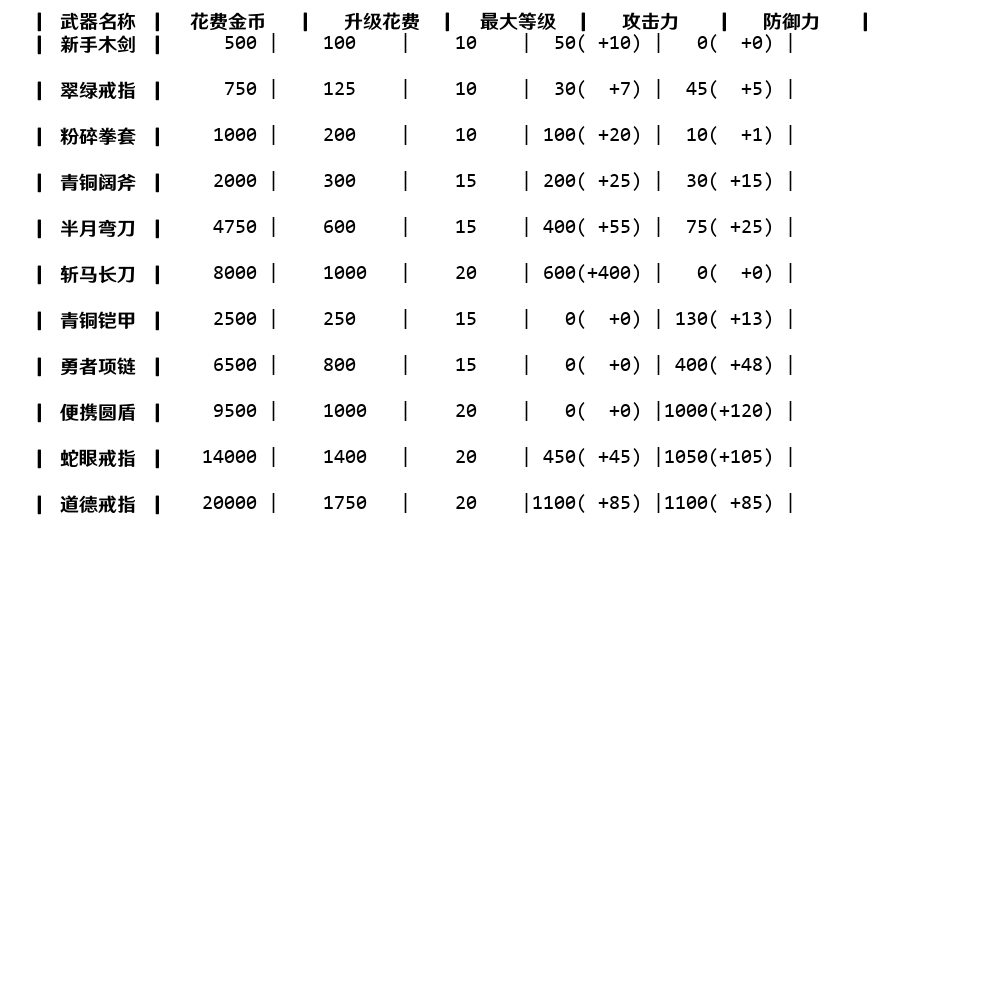
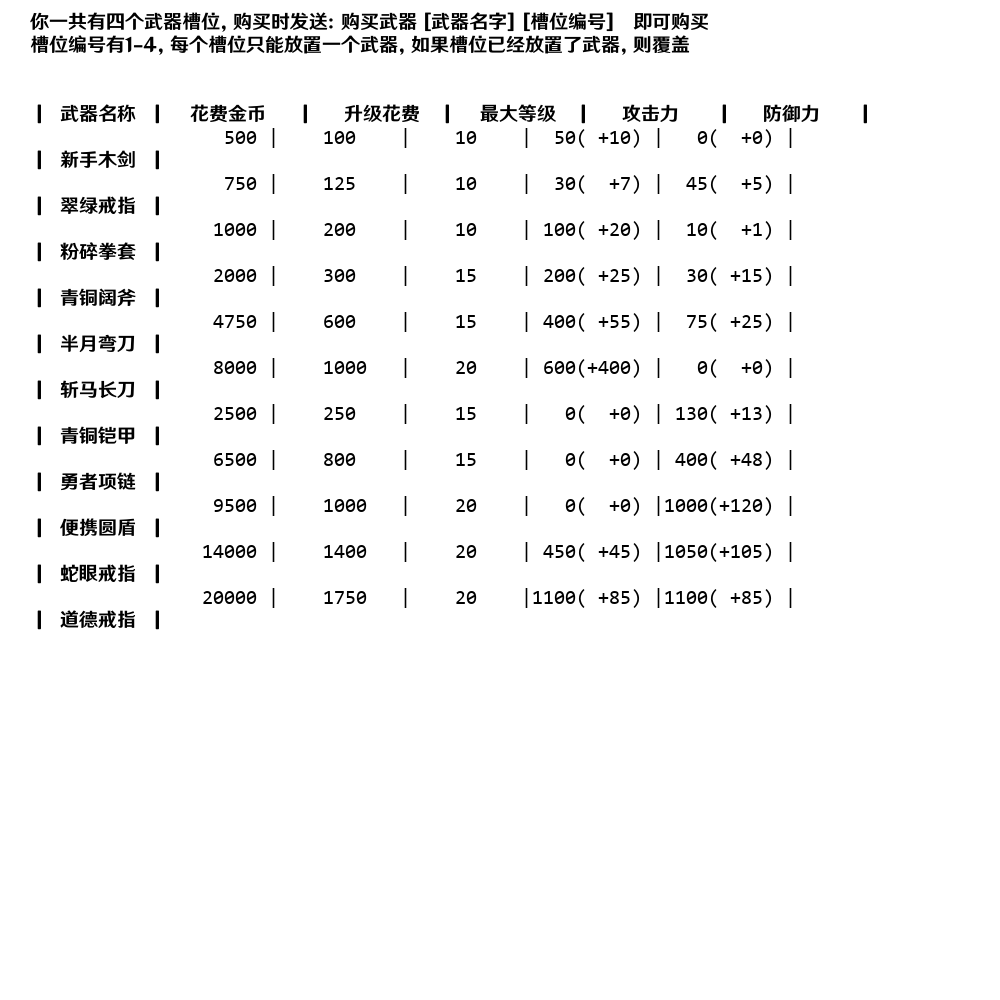
更新技能商店界面

diff --git a/src/plugins/function/qs_chaos_fighting/user_show.py b/src/plugins/function/qs_chaos_fighting/user_show.py
@@ -2,7 +2,7 @@
 Author: 七画一只妖
 Date: 2022-04-10 09:46:03
 LastEditors: 七画一只妖
-LastEditTime: 2022-04-10 10:47:48
+LastEditTime: 2022-04-10 19:06:00
 Description: file content
 '''
 # 获取当前文件路径
@@ -22,7 +22,7 @@ skill_data_file = f"{current_path}/data/skill_data.json"
 
 
 # 展示商店
-def show_shop() -> str:
+def show_shop_arm() -> str:
     # 获取武器数据
     with open(arms_data_file, 'r', encoding='utf-8') as f:
         arms_data:dict = json.load(f)
@@ -30,8 +30,9 @@ def show_shop() -> str:
     with open(skill_data_file, 'r', encoding='utf-8') as f:
         skill_data:dict = json.load(f)
 
-    shop_txt = ""
-    shop_txt += " |   武器名称   |     花费金币      |      升级花费    |     最大等级    |      攻击力       |      防御力       |\n"
+    shop_txt = "你一共有四个武器槽位，购买时发送：购买武器 [武器名字] [槽位编号]   即可购买\n"
+    shop_txt += "槽位编号有1-4，每个槽位只能放置一个武器，如果槽位已经放置了武器，则覆盖\n\n\n"
+    shop_txt += " |   武器名称   |     花费金币      |      升级花费    |     最大等级    |      攻击力       |      防御力       |\n\n"
     # 遍历武器数据
     for item in arms_data:
         shop_txt += f""" {"|" + str(item["name"]).center(10) + "|"}\n\n"""
@@ -50,4 +51,40 @@ def show_shop() -> str:
         shop_txt_2 += f"""{item["ak_start"]:>4}({"+" +str(item["ak_up"]):>4}) |"""
         shop_txt_2 += f"""{item["am_start"]:>4}({"+" +str(item["am_up"]):>4}) | \n\n"""
 
-    return get_image_by_admin(shop_txt,shop_txt_2)
+    return get_image_by_admin(shop_txt,shop_txt_2,180)
+
+
+# 展示技能
+def show_shop_skill():
+    # 获取技能数据
+    with open(skill_data_file, 'r', encoding='utf-8') as f:
+        skill_data:dict = json.load(f)
+
+    shop_txt = "技能无需学习，你只要发送：升级技能 [技能名字]      即可升级\n"
+    shop_txt += "即使你未学习这个技能，第一次使用升级也能自动学习\n\n\n"
+    shop_txt += " |   技能名称   |   技能类型    |    升级花费    |   使用消耗MP值   |     最大等级    |   基础力敏增幅   |    倍率    |\n\n"
+    # 遍历技能数据
+    for item in skill_data:
+        shop_txt += f""" {"|" + str(item["skill_name"]).center(10) + "|"}"""
+        if item["skill_type"] == "str":
+            shop_txt += f"""   物理伤害   |\n\n"""
+        elif item["skill_type"] == "int":
+            shop_txt += f"""   法术伤害   |\n\n"""
+        else:
+            shop_txt += f"""   虚无伤害   |\n\n"""
+        
+        
+        # shop_txt += f"""{str(item["buy_cost"]):>7} | """
+        # shop_txt += f"""{str(item["levle_up_cost"]).center(10) + "|"}"""
+        # shop_txt += f"""{str(item["max_level"]).center(10) + "|"}"""
+        # shop_txt += f"""{item["ak_start"]:>4}({"+" +str(item["ak_up"]):>4}) |"""
+        # shop_txt += f"""{item["am_start"]:>4}({"+" +str(item["am_up"]):>4}) | \n"""
+
+    shop_txt_2 = ""
+    for item in skill_data:
+        shop_txt_2 += f"""{str(item["skill_up_cost"]):>7}    | """
+        shop_txt_2 += f"""{str(item["skill_use_cost"]):>7}    | """
+        shop_txt_2 += f"""{str(item["skill_max_level"]):>7}    | """
+        shop_txt_2 += f"""{str(item["base_up"]):>5}    | """
+        shop_txt_2 += f"""{item["base_mp"]:>4}({"+" +str(item["mp_up"]):>4})    | \n\n"""
+    return get_image_by_admin(shop_txt,shop_txt_2,260)

diff --git a/src/plugins/function/qs_chaos_fighting/__init__.py b/src/plugins/function/qs_chaos_fighting/__init__.py
@@ -2,7 +2,7 @@
 Author: 七画一只妖
 Date: 2022-03-25 18:07:53
 LastEditors: 七画一只妖
-LastEditTime: 2022-04-10 10:29:00
+LastEditTime: 2022-04-10 19:07:55
 Description: file content
 '''
 from nonebot import on_command
@@ -12,7 +12,7 @@ from nonebot.typing import T_Handler, T_RuleChecker, T_State
 
 # 同级
 from .user_function import user_attribute,user_get_weapon,user_upgrade_weapon,user_attack,user_skill_attack,user_skill_upgrade
-from .user_show import show_shop
+from .user_show import show_shop_arm, show_shop_skill
 from tool.find_power.format_data import is_level_S
 
 
@@ -35,7 +35,8 @@ async def handle_get_help(event: GroupMessageEvent):
     5. 升级技能 (技能名称)
     6. 升级武器 (武器槽位编号)
     7. 购买武器 (武器名称) (槽位编号)
-    8. 查看商店
+    8. 武器商店
+    9. 技能商店
     ''')
 
 
@@ -196,12 +197,23 @@ async def handle_fskill_upgrade(event: GroupMessageEvent):
         await fskill_upgrade.send(message=user_skill_upgrade(str(event.user_id), skill_name))
 
 
-user_show_shop = on_command('查看商店')
+user_show_shop_arm = on_command('武器商店')
 
 
-@user_show_shop.handle()
-async def handle_user_show_shop(event: GroupMessageEvent):
+@user_show_shop_arm.handle()
+async def handle_user_show_shop_arm(event: GroupMessageEvent):
     if not is_level_S(event):
-        await user_show_shop.finish()
-    image_path = show_shop()
-    await user_show_shop.send(MessageSegment.image(f"file:///{image_path}"))
+        await user_show_shop_arm.finish()
+    image_path = show_shop_arm()
+    await user_show_shop_arm.send(MessageSegment.image(f"file:///{image_path}"))
+
+
+user_show_shop_skill = on_command('技能商店')
+
+
+@user_show_shop_skill.handle()
+async def handle_user_show_shop_skill(event: GroupMessageEvent):
+    if not is_level_S(event):
+        await user_show_shop_skill.finish()
+    image_path = show_shop_skill()
+    await user_show_shop_skill.send(MessageSegment.image(f"file:///{image_path}"))

diff --git a/src/plugins/function/qs_chaos_fighting/user_image.py b/src/plugins/function/qs_chaos_fighting/user_image.py
@@ -2,7 +2,7 @@
 Author: 七画一只妖
 Date: 2022-03-25 18:21:45
 LastEditors: 七画一只妖
-LastEditTime: 2022-04-10 10:56:51
+LastEditTime: 2022-04-10 19:06:44
 Description: file content
 '''
 
@@ -43,7 +43,7 @@ def get_image(text:str, user_id:str) -> str:
 
 
 # 传入一段文字，返回一个图片
-def get_image_by_admin(texta:str, textb:str) -> str:
+def get_image_by_admin(texta:str, textb:str, gofor:int) -> str:
     # 设置字体大小
     font_size = 19
     # 创建一个新图片
@@ -62,7 +62,7 @@ def get_image_by_admin(texta:str, textb:str) -> str:
     # 设置字体
     font = ImageFont.truetype(f"{current_path}/data/consola-1.ttf", size=font_size)
     # 绘制文字
-    draw.text((180, 30), textb, (0, 0, 0), font=font)
+    draw.text((gofor, 150), textb, (0, 0, 0), font=font)
 
 
 
